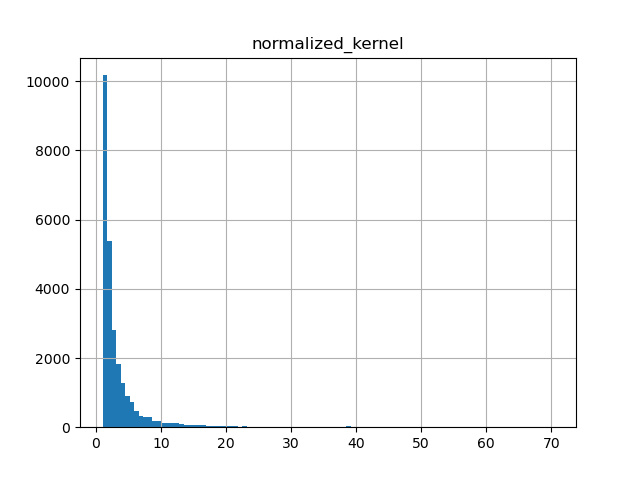
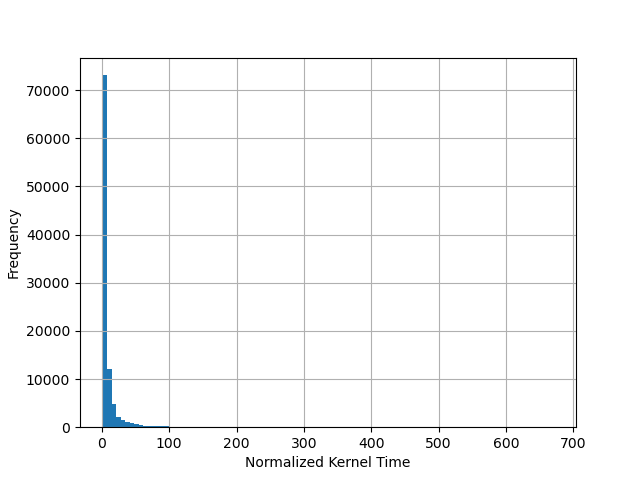
Fix normalized time histogram

diff --git a/results/python/analyze_gpu_auto_schedule_results.py b/results/python/analyze_gpu_auto_schedule_results.py
@@ -39,10 +39,16 @@ def plot_normalized_time_histogram(df_sorted, df_best, col_name):
     # print(df_sorted)
     # plot a histogram of the normalized times and save it to a file
     df_sorted.hist(column='normalized_'+col_name, bins=100)
+    plt.xlabel('Normalized Kernel Time')
+    plt.ylabel('Frequency')
+    plt.title('')
     plt.savefig(f'normalized_{col_name}_histogram.png')
 
     # plot a histogram of values with normalized times < 5
     df_sorted[df_sorted['normalized_'+col_name] < 5].hist(column='normalized_'+col_name, bins=500)
+    plt.xlabel('Normalized Kernel Time')
+    plt.ylabel('Frequency')
+    plt.title('')
     plt.savefig(f'normalized_{col_name}_histogram_lt5.png')
 
 def write_best_config_maps_to_file(df_best_total_time, benchmark_names, batch_sizes, file_name):
@@ -258,11 +264,11 @@ for benchmark in benchmark_names:
 
 # print(df_best_kernel_time)
 
-print('Comparison across batch sizes')
-compare_across_batch_sizes(df_best_kernel_time, df_sorted_by_kernel_time, batch_sizes, benchmark_names)
+# print('Comparison across batch sizes')
+# compare_across_batch_sizes(df_best_kernel_time, df_sorted_by_kernel_time, batch_sizes, benchmark_names)
 
-print()
-print('Comparison across benchmarks')
-compare_across_benchmarks(df_best_kernel_time, df_sorted_by_kernel_time, batch_sizes, benchmark_names)
-# plot_normalized_time_histogram(df_sorted_by_kernel_time, df_best_kernel_time, 'kernel')
+# print()
+# print('Comparison across benchmarks')
+# compare_across_benchmarks(df_best_kernel_time, df_sorted_by_kernel_time, batch_sizes, benchmark_names)
+plot_normalized_time_histogram(df_sorted_by_kernel_time, df_best_kernel_time, 'kernel')
 # write_best_config_maps_to_file(df_best_total_time, benchmark_names, batch_sizes, "best_configs.txt")
